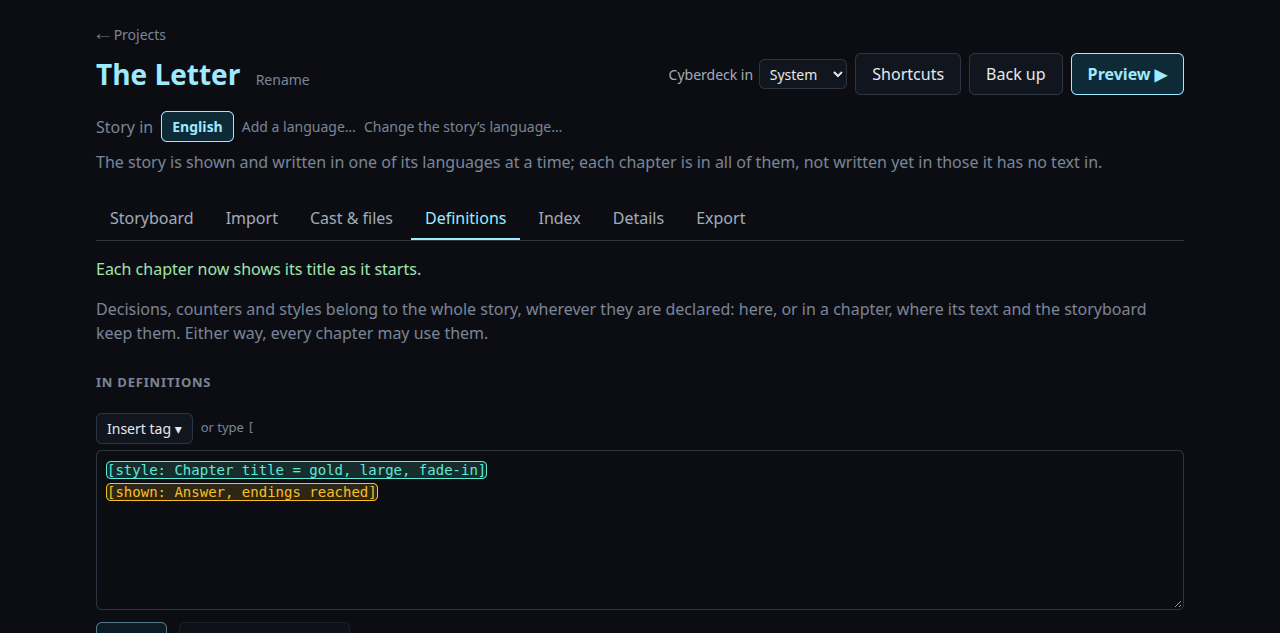
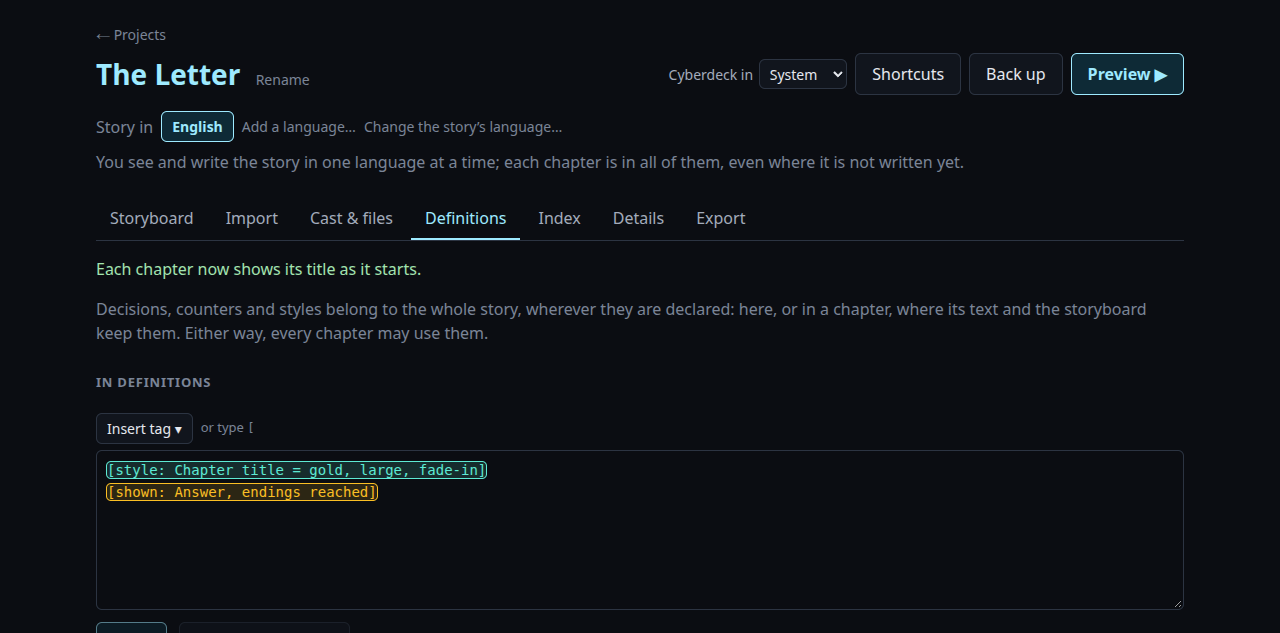
French wording of 2.0 read again
Clumsy or unclear French strings of the languages, the export and the
journal rewritten to read naturally, with their English where it needed
it too; the guide's screenshots taken again.

Changed region(s): [[0.0625, 0.2401, 0.875, 0.2701]]

diff --git a/packages/cyberdeck/src/i18n/detailsMessages.ts b/packages/cyberdeck/src/i18n/detailsMessages.ts
@@ -20,7 +20,7 @@ const en = {
   export: 'Export',
   firstLanguage: 'the story’s first language: always in the game',
   firstLanguageLacks: (titles: readonly string[]) => `still to write in this language: ${titles.join(', ')}. Write ${titles.length === 1 ? 'it' : 'them'}, or untick ${titles.length === 1 ? 'it' : 'them'} above`,
-  notWrittenYet: (titles: readonly string[]) => `not written yet in it: ${titles.join(', ')}. Translate ${titles.length === 1 ? 'it' : 'them'}, or untick ${titles.length === 1 ? 'it' : 'them'} above, for this language to go`,
+  notWrittenYet: (titles: readonly string[]) => `not written yet in it: ${titles.join(', ')}. Translate ${titles.length === 1 ? 'it' : 'them'}, or untick ${titles.length === 1 ? 'it' : 'them'} above, for this language to be in the game`,
   exportStoryText: (language: string) => `Export the story as text, in ${language}`,
   paragraphs: 'Paragraphs, for every text export (here and in a chapter’s panel)',
   onePagePerParagraph: 'One page per paragraph: imported again, it is cut exactly the same',
@@ -53,12 +53,12 @@ const fr: DetailsMessages = {
     ? `Chaque archive contient aussi la scène ${names}, que n’importe quel chapitre peut jouer.`
     : `Chaque archive contient aussi les ${count} scènes (${names}), que n’importe quel chapitre peut jouer.`,
   export: 'Exporter',
-  firstLanguage: 'la première langue de l’histoire\u00a0: toujours dans le jeu',
+  firstLanguage: 'la langue d’origine de l’histoire\u00a0: toujours dans le jeu',
   firstLanguageLacks: titles => `reste à écrire dans cette langue\u00a0: ${titles.join(', ')}. Écrivez-${titles.length <= 1 ? 'le' : 'les'}, ou décochez-${titles.length <= 1 ? 'le' : 'les'} plus haut`,
-  notWrittenYet: titles => `pas encore écrit${titles.length <= 1 ? '' : 's'} dans cette langue\u00a0: ${titles.join(', ')}. Traduisez-${titles.length <= 1 ? 'le' : 'les'}, ou décochez-${titles.length <= 1 ? 'le' : 'les'} plus haut, pour que cette langue parte`,
-  exportStoryText: language => `Exporter l’histoire en texte, en ${language}`,
+  notWrittenYet: titles => `pas encore écrit${titles.length <= 1 ? '' : 's'} dans cette langue\u00a0: ${titles.join(', ')}. Traduisez-${titles.length <= 1 ? 'le' : 'les'}, ou décochez-${titles.length <= 1 ? 'le' : 'les'} plus haut, pour que cette langue soit dans le jeu`,
+  exportStoryText: language => `Exporter le texte de l’histoire en ${language}`,
   paragraphs: 'Paragraphes, pour tout export en texte (ici et dans le panneau d’un chapitre)',
-  onePagePerParagraph: 'Une page par paragraphe\u00a0: réimporté, il est découpé exactement pareil',
+  onePagePerParagraph: 'Une page par paragraphe\u00a0: réimporté, le texte est découpé exactement de la même façon',
   paragraphsAsWritten: 'Tels qu’écrits\u00a0: les pages d’un même paragraphe réunies, à envoyer à un traducteur',
   languages: 'Langues',
   asText: 'En texte',

diff --git a/packages/cyberdeck/src/i18n/editorMessages.ts b/packages/cyberdeck/src/i18n/editorMessages.ts
@@ -17,7 +17,7 @@ const en = {
   shortcuts: 'Shortcuts',
   backUp: 'Back up',
   storyLanguage: 'Story in',
-  storyLanguageHelp: 'The story is shown and written in one of its languages at a time; each chapter is in all of them, not written yet in those it has no text in.',
+  storyLanguageHelp: 'You see and write the story in one language at a time; each chapter is in all of them, even where it is not written yet.',
   addLanguage: 'Add a language…',
   changeLanguage: 'Change the story’s language…',
   removeLanguage: 'Remove this language',
@@ -26,7 +26,7 @@ const en = {
   addThisLanguage: 'Add this language',
   changeToThisLanguage: 'Set this language',
   addLanguageHelp: 'Its chapters wait for their text: import it, or write it in the storyboard.',
-  changeLanguageHelp: 'The text stays as it is: only the language it is said to be in changes, for cutting its pages and reading it aloud.',
+  changeLanguageHelp: 'The text stays as it is: only the language it is marked as changes, which cuts its pages and reads it aloud.',
   preview: 'Preview ▶',
   backupFileName: (projectName: string) => `${projectName} backup.zip`,
   backupHelp: (size: string) => `(${size}): the project folder, to restore here or on another computer.`,
@@ -61,7 +61,7 @@ const fr: EditorMessages = {
   shortcuts: 'Raccourcis',
   backUp: 'Copie de secours',
   storyLanguage: 'Histoire en',
-  storyLanguageHelp: 'L’histoire est montrée et écrite dans une de ses langues à la fois\u00a0; chaque chapitre existe dans toutes, pas encore écrit dans celles où il n’a pas de texte.',
+  storyLanguageHelp: 'Vous voyez et écrivez l’histoire dans une langue à la fois\u00a0; chaque chapitre existe dans toutes, même là où il n’est pas encore écrit.',
   addLanguage: 'Ajouter une langue…',
   changeLanguage: 'Changer la langue de l’histoire…',
   removeLanguage: 'Retirer cette langue',
@@ -70,7 +70,7 @@ const fr: EditorMessages = {
   addThisLanguage: 'Ajouter cette langue',
   changeToThisLanguage: 'Choisir cette langue',
   addLanguageHelp: 'Ses chapitres attendent leur texte\u00a0: importez-le, ou écrivez-le dans le storyboard.',
-  changeLanguageHelp: 'Le texte reste tel quel\u00a0: seule change la langue dans laquelle il est dit écrit, pour découper ses pages et le lire à voix haute.',
+  changeLanguageHelp: 'Le texte reste tel quel\u00a0: seule change la langue indiquée, qui sert à découper ses pages et à le lire à voix haute.',
   preview: 'Aperçu ▶',
   backupFileName: projectName => `${projectName} copie de secours.zip`,
   backupHelp: size => `(${size}) : le dossier du projet, à restaurer ici ou sur un autre ordinateur.`,

diff --git a/packages/cyberdeck/src/i18n/importMessages.ts b/packages/cyberdeck/src/i18n/importMessages.ts
@@ -12,7 +12,7 @@ const en = {
   importAs: 'Import as',
   textLanguage: 'Language of the text',
   languageSaid: 'as its first line says',
-  takesPlacesOf: (titles: readonly string[], language: string) => `In ${language}, it goes in place of ${titles.join(', ')}, not written in ${language} yet. To put it elsewhere, choose “In place of a chapter”.`,
+  takesPlacesOf: (titles: readonly string[], language: string) => `In ${language}, this text goes in place of ${titles.join(', ')} (not written in ${language} yet). To put it elsewhere, choose “In place of a chapter”.`,
   laidOverByPlace: (language: string) => `A whole story in ${language}: its chapters take the places of the story’s, in order, those already written in ${language} included.`,
   comesAfter: (count: number, language: string) => `The story is already written in ${language}: these chapters come after its ${count === 1 ? 'chapter' : `${count} chapters`}. A translation? Pick its language above.`,
   nowShownIn: (language: string) => ` The story is now shown in ${language}.`,
@@ -50,7 +50,7 @@ const fr: ImportMessages = {
   importAs: 'Importer en tant que',
   textLanguage: 'Langue du texte',
   languageSaid: 'comme le dit sa première ligne',
-  takesPlacesOf: (titles, language) => `En ${language}, il prend la place de ${titles.join(', ')}, pas encore écrit en ${language}. Pour le placer ailleurs, choisissez «\u00a0À la place d’un chapitre\u00a0».`,
+  takesPlacesOf: (titles, language) => `En ${language}, ce texte prend la place de ${titles.join(', ')} (pas encore écrit${titles.length <= 1 ? '' : 's'} en ${language}). Pour le placer ailleurs, choisissez «\u00a0À la place d’un chapitre\u00a0».`,
   laidOverByPlace: language => `Une histoire entière en ${language}\u00a0: ses chapitres prennent la place de ceux de l’histoire, dans l’ordre, y compris ceux déjà écrits en ${language}.`,
   comesAfter: (count, language) => `L’histoire est déjà écrite en ${language}\u00a0: ces chapitres s’ajoutent après ${count <= 1 ? 'son chapitre' : `ses ${count} chapitres`}. Une traduction\u00a0? Choisissez sa langue ci-dessus.`,
   nowShownIn: language => ` L’histoire est maintenant affichée en ${language}.`,

diff --git a/packages/cyberdeck/src/i18n/storyLevelMessages.ts b/packages/cyberdeck/src/i18n/storyLevelMessages.ts
@@ -46,7 +46,7 @@ type StoryLevelMessages = typeof en
 const fr: StoryLevelMessages = {
   writtenHere: 'Écrit dans Cyberdeck',
   notWrittenIn: language => `pas encore écrit en ${language}`,
-  hollowHelp: language => `Pas encore écrit en ${language}\u00a0: son titre en attendant, et le jeu ne peut pas sortir en ${language} tant qu’il manque. Ouvrez-le pour l’écrire ici, ou importez son texte avec «\u00a0À la place d’un chapitre\u00a0».`,
+  hollowHelp: language => `Pas encore écrit en ${language}\u00a0: son titre d’origine le remplace en attendant, et le jeu ne peut pas sortir en ${language} tant qu’il manque. Ouvrez-le pour l’écrire ici, ou importez son texte avec «\u00a0À la place d’un chapitre\u00a0».`,
   confirmRemoveChapter: (title, languages) => languages === null ? `Supprimer ${title}\u00a0?` : `Supprimer ${title}, dans toutes les langues (${languages})\u00a0?`,
   confirmRemoveScene: (title, languages) => languages === null ? `Supprimer la scène ${title}\u00a0?` : `Supprimer la scène ${title}, dans toutes les langues (${languages})\u00a0?`,
   chapterTextHelp: '· modifiez-le, puis importez-le avec «\u00a0À la place d’un chapitre\u00a0».',

diff --git a/packages/cyberdeck/src/i18n/storyboardMessages.ts b/packages/cyberdeck/src/i18n/storyboardMessages.ts
@@ -168,7 +168,7 @@ const fr: StoryboardMessages = {
   grid: 'Grille',
   tree: 'Arbre',
   graph: 'Graphe',
-  hollowChapter: (language: string) => `Pas encore écrit en ${language}\u00a0: les pages ajoutées ici en sont le texte en ${language}.`,
+  hollowChapter: (language: string) => `Pas encore écrit en ${language}\u00a0: les pages ajoutées ici formeront son texte en ${language}.`,
   graphHelp: 'Faites glisser pour vous déplacer, la molette pour zoomer\u00a0; un clic sélectionne une case.',
   graphKeys: 'Tab passe d’une case à l’autre, Entrée en sélectionne une et passe à son panneau, Échap ramène à la case\u00a0; les flèches déplacent la carte, + et − zooment.',
   graphOnlyIf: condition => `seulement si ${condition}`,

diff --git a/packages/cyberdeck/src/i18n/tagTextMessages.ts b/packages/cyberdeck/src/i18n/tagTextMessages.ts
@@ -174,7 +174,7 @@ const fr: TagTextMessages = {
     decision: 'déclare une décision et ses valeurs',
     'decision multi': 'une décision qui peut avoir plusieurs valeurs à la fois',
     shown: 'liste ce que les joueurs voient dans leur journal',
-    'shown after an ending': 'pareil, une fois une fin atteinte',
+    'shown after an ending': 'de même, une fois une fin atteinte',
     counter: 'déclare un compteur et sa valeur de départ',
     'counter lasting': 'un compteur que le profil garde d’une partie à l’autre',
     'decision lasting': 'une décision que le profil garde d’une partie à l’autre',
